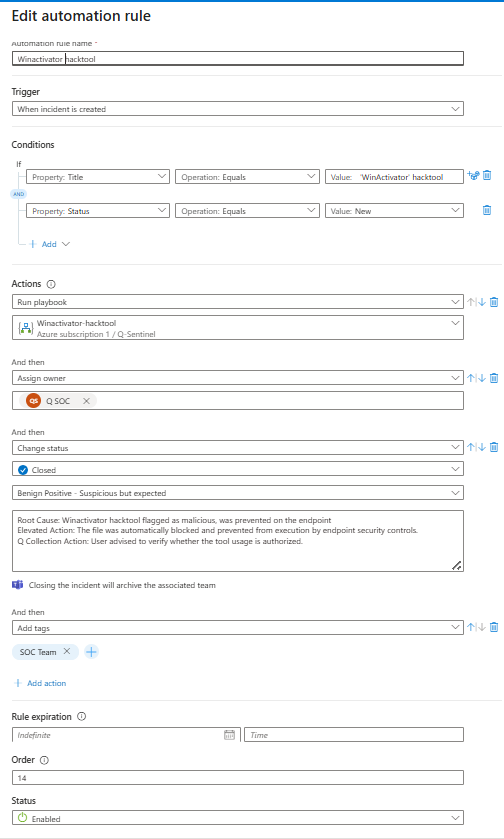
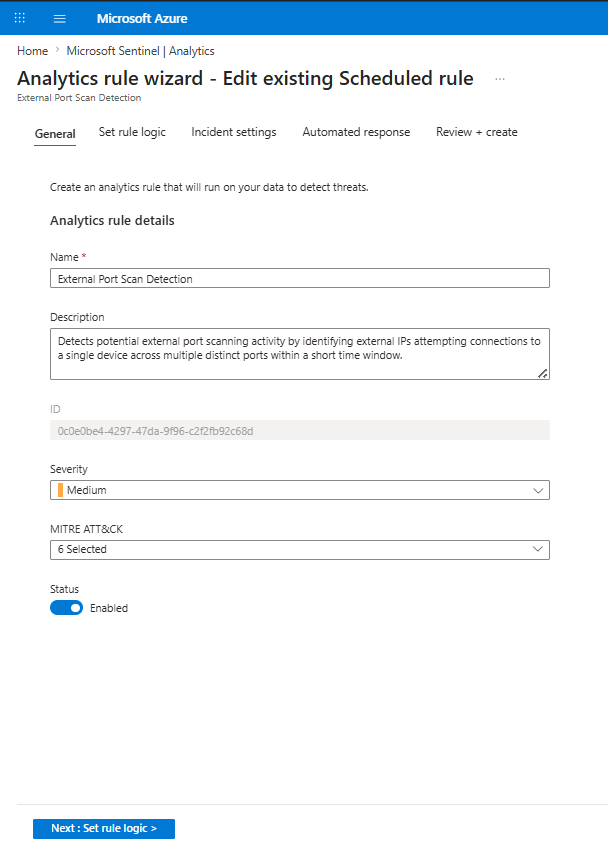
updated

diff --git a/SIEM & Security Monitoring/Microsoft/Security-Automation/08-External-Port-Scan/KQL.md b/SIEM & Security Monitoring/Microsoft/Security-Automation/08-External-Port-Scan/KQL.md
@@ -1,3 +1,54 @@
 ```kql
-
+let isPrivateIP = (ip: string) {
+    ip startswith "10."
+    or ip startswith "::1"
+    or ip startswith "fc00::"
+    or ip startswith "fe80::"
+    or ip startswith "192.168."
+    or ip matches regex @"^172\.(1[6-9]|2[0-9]|3[0-1])\."
+    or ip startswith "127."
+    or ip startswith "169.254."
+};
+let normalizeIPv4 = (ip: string) {
+    iff(ip startswith "::ffff:", substring(ip, 7), ip)
+};
+let lookback = 20m;
+let PortThreshold = 20;
+let Base = DeviceNetworkEvents
+| where TimeGenerated > ago(lookback)
+| where isnotempty(RemoteIP) and isnotempty(RemotePort)
+| extend RemoteIP_norm = normalizeIPv4(RemoteIP)
+| where not(isPrivateIP(RemoteIP_norm))
+| extend
+    AttackType = "External Port Scanning",
+    LocalTime = format_datetime(datetime_add("hour", 6, TimeGenerated), "yyyy-MM-dd HH:mm:ss.fff");
+let RemoteIPCounts = Base
+| summarize RemoteIPCount = dcount(RemoteIP_norm) by DeviceName;
+let PerPort = Base
+| summarize
+    IPList = strcat_array(make_set(RemoteIP_norm, 300), ", "),
+    LastSeenPort = max(TimeGenerated),
+    DeviceId=any(DeviceId)
+  by DeviceName, RemotePort
+| extend
+    PortNum = toint(RemotePort),
+    PortToIPs = strcat(tostring(RemotePort), " : [", IPList, "] ");
+PerPort
+| where isnotnull(PortNum)
+| sort by DeviceName asc, PortNum asc
+| summarize
+    TimeGenerated = max(LastSeenPort),
+    LocalTime = format_datetime(datetime_add("hour", 6, max(LastSeenPort)), "yyyy-MM-dd HH:mm:ss.fff"),
+    RemotePortCount = dcount(RemotePort),
+    AttackType = any("External Port Scanning"),
+    SinglePort_IPs_List = make_list(PortToIPs),
+    RemotePort_List = make_list(tostring(RemotePort)),
+    DeviceId = any(DeviceId)
+  by DeviceName
+| extend
+    SinglePort_IPs = strcat_array(SinglePort_IPs_List, "\n\n"),
+    RemotePort = strcat_array(RemotePort_List, ", ")
+| project-away SinglePort_IPs_List, RemotePort_List
+| join kind=leftouter RemoteIPCounts on DeviceName
+| where RemotePortCount >= PortThreshold
 ```

diff --git a/SIEM & Security Monitoring/Microsoft/Security-Automation/09-AutoKMS-Detection/email.md b/SIEM & Security Monitoring/Microsoft/Security-Automation/09-AutoKMS-Detection/email.md
@@ -1,0 +1,36 @@
+```
+Dear Team,
+
+I hope this message finds you well.
+
+Summary of the Alert:
+The alert was generated due to the presence of an activation tool .This type of activation tool is classified as a hacktool and is commonly used to bypass legitimate software licensing mechanisms.
+
+Impact Analysis:
+Title : @{item()?['Title']}
+Alert ID : @{item()?['AlertId']}
+Alert Time Local : @{item()?['LocalLastSeen']}
+Last Seen UTC : @{item()?['LastSeen']}
+Device Name : @{item()?['DeviceName']}
+Device ID : @{item()?['DeviceId']}
+Account Name : @{item()?['AccountName']}
+Account Domain : @{item()?['AccountDomain']}
+Folder Path : @{item()?['FolderPaths']}
+File Name : @{item()?['FileNames']}
+SHA1 : @{item()?['SHA1s']}
+SHA256 : @{item()?['SHA256s']}
+File Size : @{item()?['MaxFileSize_Byte']} Byte
+File Size : @{item()?['FileSize_MB']} MB
+
+Cause of the Alert:
+The alert was triggered due to the execution and/or detection of a known activation tool (hacktool) on the endpoint, identified through process activity and file indicators matching commonly used unauthorized software activation utilities.
+
+Please review the activity to determine whether it is authorized.
+
+If you require any additional clarification or assistance, please feel free to let us know.
+Thanking you.
+
+Regards,
+SOC Team
+ELEVATE SOLUTIONS LIMITED
+```

diff --git a/SIEM & Security Monitoring/Microsoft/Security-Automation/08-External-Port-Scan/analytics-rule-KQL.md b/SIEM & Security Monitoring/Microsoft/Security-Automation/08-External-Port-Scan/analytics-rule-KQL.md
@@ -1,0 +1,35 @@
+```kql
+let isPrivateIP = (ip: string) {
+    ip startswith "10."
+    or ip startswith "192.168."
+    or ip matches regex @"^172\.(1[6-9]|2[0-9]|3[0-1])\."
+    or ip startswith "127."
+};
+let lookback = 20m;
+let PortThreshold = 20;
+DeviceNetworkEvents
+| where TimeGenerated > ago(lookback)       
+| where isnotempty(RemoteIP)
+| where not(isPrivateIP(RemoteIP))
+| where isnotempty(RemotePort)
+| extend
+    RemoteIP_Type = "External IP",
+    AttackType = "External Port Scanning",
+    LocalTime = format_datetime(datetime_add("hour", 6, TimeGenerated), "yyyy-MM-dd HH:mm:ss.fff")
+| summarize
+    TimeGenerated = take_any(TimeGenerated),
+    LocalTime = max(LocalTime),
+    FirstSeen = min(TimeGenerated),
+    LastSeen = max(TimeGenerated),
+    ActionType = take_any(ActionType),
+    DeviceId = take_any(DeviceId),
+    RemoteIP= strcat_array(make_set_if(RemoteIP , isnotempty(RemoteIP ), 300), ", "),
+    RemoteIPCount= dcount(RemoteIP),
+    RemotePort= strcat_array(make_set_if(RemotePort , isnotempty(RemotePort ), 300), ", "),
+    RemotePortCount = dcount(RemotePort),
+    RemoteIP_Type = take_any(RemoteIP_Type),
+    MachineGroup=any(MachineGroup),
+    AttackType = take_any(AttackType)
+by DeviceName
+| where RemotePortCount >= PortThreshold    
+```

diff --git a/SIEM & Security Monitoring/Microsoft/Security-Automation/08-External-Port-Scan/email.md b/SIEM & Security Monitoring/Microsoft/Security-Automation/08-External-Port-Scan/email.md
@@ -1,3 +1,33 @@
 ```
+Dear Team,
 
+I hope this message finds you well.
+
+I would like to inform you regarding the alert titled "External Port Scan Detection".
+
+Summary of the Alert:
+The alert was generated after multiple connection attempts were observed from multiple external IP addresses targeting a device across numerous distinct network ports within a short time window, indicating potential port scanning activity.
+
+Impact Analysis:
+Time Generated (UTC) : @{item()?['TimeGenerated']}
+Local Time (BD) : @{item()?['LocalTime']}
+Device Name : @{item()?['DeviceName']}
+Device ID : @{item()?['DeviceId']}
+Attack Type : @{item()?['AttackType']}
+Remote Port Count : @{item()?['RemotePortCount']}
+Remote IP Count : @{item()?['RemoteIPCount']}
+Port : IP =
+@{item()?['SinglePort_IPs']}
+
+Cause of the Alert:
+The analytics rule identified external IP addresses initiating connections to a single device on a high number of unique destination ports, exceeding the defined port scan threshold.
+
+Please review the activity to determine whether it is authorized.
+
+If you require any additional clarification or assistance, please feel free to let us know.
+Thanking you.
+
+Regards,
+SOC Team
+ELEVATE SOLUTIONS LIMITED
 ```

diff --git a/SIEM & Security Monitoring/Microsoft/Security-Automation/09-AutoKMS-Detection/KQL.md b/SIEM & Security Monitoring/Microsoft/Security-Automation/09-AutoKMS-Detection/KQL.md
@@ -1,0 +1,24 @@
+```kql
+let Lookback = 30m;
+AlertEvidence
+| where TimeGenerated > ago(Lookback)
+| where Title contains "AutoKMS" or Title contains "Winactivator"
+| summarize
+    Title= any(Title),
+    FirstSeen     = min(TimeGenerated),
+    LastSeen      = max(TimeGenerated),
+    DeviceName    = anyif(DeviceName, isnotempty(DeviceName)),
+    DeviceId      = anyif(DeviceId, isnotempty(DeviceId)),
+    AccountName   = anyif(AccountName, isnotempty(AccountName)),
+    AccountDomain = anyif(AccountDomain, isnotempty(AccountDomain)),
+    FolderPaths   = anyif(FolderPath, isnotempty(FolderPath)),
+    FileNames     = anyif(FileName, isnotempty(FileName)),
+    SHA1s         = anyif(SHA1, isnotempty(SHA1)),
+    SHA256s       = anyif(SHA256, isnotempty(SHA256)),
+    MaxFileSize_Byte = anyif(FileSize, isnotempty(FileSize))
+  by AlertId
+| extend 
+    LocalLastSeen = format_datetime(datetime_add("hour", 6, LastSeen), "dd-MM-yyyy HH:mm:ss.fff"),
+    FileSize_MB = round(MaxFileSize_Byte / 1024.0 / 1024.0, 3)
+| order by LastSeen desc
+```

diff --git a/SIEM & Security Monitoring/Microsoft/Security-Automation/08-External-Port-Scan/Readme.md b/SIEM & Security Monitoring/Microsoft/Security-Automation/08-External-Port-Scan/Readme.md
@@ -1,17 +1,26 @@
-# Winactivator hacktool
+# External Port Scanning
+
+## Creating Analytics Rule
+![alt text](./image/01.png)
+![alt text](./image/02.png)
+
+### See the full [Analytics Rule Query](./analytics-rule-KQL.md) here.
+
+![alt text](./image/03.png)
+![alt text](./image/04.png)
+![alt text](./image/05.png)
 
 ## Sentinel Automation Rule
-
-![alt text](./image/01.png)
+![alt text](./image/06.png)
 
 ## Logic App
 
 ### Overview
-![alt text](./image/02.png)
+![alt text](./image/07.png)
 
 ### Run Query and List Results
 
-See the [KQL Query](./KQL.md) for Winactivator hacktool
+See the [KQL Query](./KQL.md) for External Port Scanning
 
 
 ### Send an email (V2)

diff --git a/SIEM & Security Monitoring/Microsoft/Security-Automation/09-AutoKMS-Detection/Readme.md b/SIEM & Security Monitoring/Microsoft/Security-Automation/09-AutoKMS-Detection/Readme.md
@@ -1,0 +1,19 @@
+# AutoKMS-Detection
+
+## Sentinel Automation Rule
+
+![alt text](./image/01.png)
+
+## Logic App
+
+### Overview
+![alt text](./image/02.png)
+
+### Run Query and List Results
+
+See the [KQL Query](./KQL.md) for AutoKMS-Detection
+
+
+### Send an email (V2)
+
+See email format [here](./email.md)

diff --git a/SIEM & Security Monitoring/Microsoft/Security-Automation/README.md b/SIEM & Security Monitoring/Microsoft/Security-Automation/README.md
@@ -6,4 +6,8 @@
 - [02-TI Map IP Entity to CommonSecurityLog](./02-TI%20Map%20IP%20Entity%20to%20CommonSecurityLog/README.md)
 - [03-TI Map IP Entity to DeviceNetworkEvents](./03-TI%20Map%20IP%20Entity%20to%20DeviceNetworkEvents/Readme.md)
 - [04-TI Map IP Entity to SigninLogs](./04-TI%20Map%20IP%20Entity%20to%20SigninLogs/Readme.md)
-- [05-Winactivator hacktool](./05-Winactivator%20hacktool/Readme.md)
+- [05-TI IoC Match – Network Session](./05-TI%20IoC%20Match%20–%20Network%20Session/Readme.md)
+- [06-TI-IoC-Match-Web-Request](./06-TI-IoC-Match-Web-Request/Readme.md)
+- [07-Winactivator hacktool](./07-Winactivator%20hacktool/Readme.md)
+- [08-External-Port-Scan](./08-External-Port-Scan/Readme.md)
+- [09-AutoKMS-Detection](./09-AutoKMS-Detection/Readme.md)